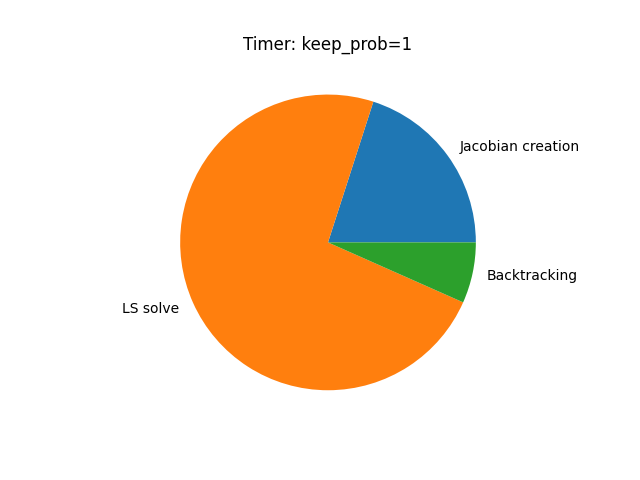
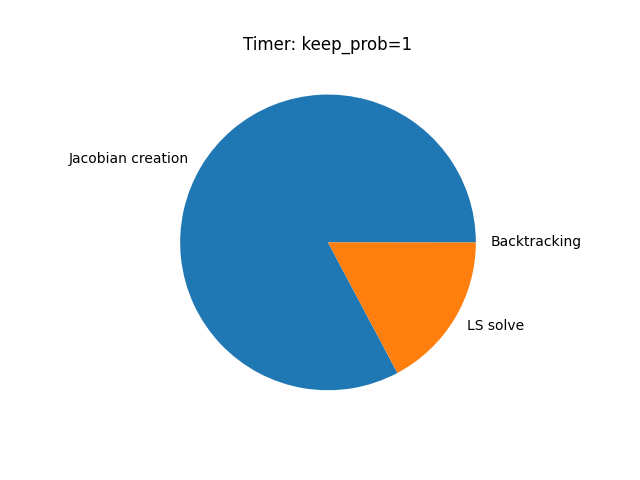
fix scaling of gaussian variance

Changed region(s): [[0.0938, 0.1875, 0.9062, 0.8125], [0.7188, 0.2812, 0.9062, 0.3125], [0.7188, 0.6562, 0.8125, 0.6875]]

diff --git a/src/mnist_conv_gaussian.py b/src/mnist_conv_gaussian.py
@@ -18,7 +18,7 @@ if __name__ == '__main__':
     torch.manual_seed(0)
 
     ## Load MNIST Dataset 
-    N=500
+    N=800
     (train_X, train_y), (test_X, test_y) = get_data_classifier(N=N, linear_input=False)
     ## Get initial neural network parameters 
     m = train_y.shape[1]
@@ -32,26 +32,29 @@ if __name__ == '__main__':
     print("Parameters", X0.shape)
 
     ## Do Gauss Newton
-    MAX_TIME = 100
-    print("Train Accuracy", get_accuracy(nn_gn, train_X, train_y))
-    print("Test Accuracy", get_accuracy(nn_gn, test_X, test_y))
-    X_est,train_errors_gaussian, _, timer, _ = optimize(nn_gn, X0, train_X, train_y, batch_size=150, max_time=MAX_TIME, backtrack=True,
-                        optimization_method="Gaussian", optim_params={"keep_prob":1})
+    MAX_TIME = 60
+    BATCH_SIZE=300
+
+    for i in range(1):
+        print("Train Accuracy", get_accuracy(nn_gn, train_X, train_y))
+        print("Test Accuracy", get_accuracy(nn_gn, test_X, test_y))
+        X_est,train_errors_gaussian, _, timer, _ = optimize(nn_gn, X0, train_X, train_y, batch_size=BATCH_SIZE, max_time=MAX_TIME, backtrack=True,
+                            optimization_method="Gaussian", optim_params={"keep_prob":1,"momentum": 0})
 
 
-    print("Train Accuracy", get_accuracy(nn_gn, train_X, train_y))
-    print("Test Accuracy", get_accuracy(nn_gn, test_X, test_y))
-    X_est,train_errors_05, _, timer, _  = optimize(nn_gn, X0, train_X, train_y, batch_size=150, max_time=MAX_TIME, backtrack=True,
-                        optimization_method="Random columns", optim_params={"keep_prob":1})
-    
-    ## Print results
-    losses = [train_errors_gaussian,train_errors_05]
-    labels = ["Algo 2: Gaussian", "Algo 2: Keep prob = 1"]
-    print("Train Accuracy", get_accuracy(nn_gn, train_X, train_y))
-    print("Test Accuracy", get_accuracy(nn_gn, test_X, test_y))
-    plot_mult(losses, labels,  "plots/Gaussian comparison", MAX_TIME, "Algo 2: Digit 10dim classification")
+        print("Train Accuracy", get_accuracy(nn_gn, train_X, train_y))
+        print("Test Accuracy", get_accuracy(nn_gn, test_X, test_y))
+        X_est,train_errors_05, _, timer, _  = optimize(nn_gn, X0, train_X, train_y, batch_size=BATCH_SIZE, max_time=MAX_TIME, backtrack=True,
+                            optimization_method="Random columns", optim_params={"keep_prob":1})
+        
+        ## Print results
+        losses = [train_errors_gaussian,train_errors_05]
+        labels = ["Algo 2: Gaussian", "Algo 2: Keep prob = 1"]
+        print("Train Accuracy", get_accuracy(nn_gn, train_X, train_y))
+        print("Test Accuracy", get_accuracy(nn_gn, test_X, test_y))
+        plot_mult(losses, labels,  "data/temp/Gaussian comparison", MAX_TIME, "Algo 2: Digit 10dim classification")
 
-    
+        
 
 
 

diff --git a/src/momentum.py b/src/momentum.py
@@ -1,6 +1,7 @@
 from functions.PyTorchGN import NN_GN
 from neural_networks.Conv2 import Conv2
 from neural_networks.Conv2_classifier import Conv2_Classifier
+from neural_networks.Conv3_classifier import Conv3_Classifier
 from neural_networks.FC1 import FC1
 from neural_networks.FC2 import FC2
 from neural_networks.Conv1 import Conv1
@@ -18,14 +19,14 @@ if __name__ == '__main__':
     torch.manual_seed(0)
 
     ## Load MNIST Dataset 
-    N=400
+    N=1400
     (train_X, train_y), (test_X, test_y) = get_data_classifier(N=N, linear_input=False)
 
     ## Get initial neural network parameters 
     m = train_y.shape[1]
     n = train_X.shape[1]
 
-    neural_network = Conv2_Classifier()
+    neural_network = Conv3_Classifier()
     #summary(neural_network, input_size = (1, 28, 28))
     neural_network.float()
     nn_gn = NN_GN(neural_network)
@@ -33,8 +34,8 @@ if __name__ == '__main__':
     print("Parameters", X0.shape)
 
     ## Do Gauss Newton
-    MAX_TIME = 120
-    EXPERIMENTS_COUNT = 4
+    MAX_TIME = 60
+    EXPERIMENTS_COUNT = 1
 
     losses = []
 
@@ -42,15 +43,15 @@ if __name__ == '__main__':
     plt.figure()
     for _ in range(EXPERIMENTS_COUNT):
         X_est,train_errors, _ , timer1, _,= optimize(nn_gn, X0, train_X, train_y, batch_size=300, max_time=MAX_TIME, backtrack=True,
-                        optimization_method="Random columns", optim_params={"keep_prob":0.01, "momentum": 0.5}, visualize=False)
+                        optimization_method="Random columns", optim_params={"keep_prob":0.1, "momentum": 0}, visualize=False)
         Ts = np.linspace(0, MAX_TIME, len(train_errors))
         plt.plot(Ts, train_errors, color='b')
 
-        X_est,train_errors, _ , timer1, _,= optimize(nn_gn, X0, train_X, train_y, batch_size=300, max_time=MAX_TIME, backtrack=True,
-                        optimization_method="Random columns", optim_params={"keep_prob":0.01, "momentum": 0}, visualize=False)
+        # X_est,train_errors, _ , timer1, _,= optimize(nn_gn, X0, train_X, train_y, batch_size=300, max_time=MAX_TIME, backtrack=True,
+        #                 optimization_method="Random columns", optim_params={"keep_prob":0.01, "momentum": 0}, visualize=False)
 
-        Ts = np.linspace(0, MAX_TIME, len(train_errors))
-        plt.plot(Ts, train_errors, color='g')
+        # Ts = np.linspace(0, MAX_TIME, len(train_errors))
+        # plt.plot(Ts, train_errors, color='g')
         sgd_losses_lr05 = stochastic_gradient_descent(train_X, train_y,  nn_gn=nn_gn, max_time=MAX_TIME, batch_size=300, lr=0.5)
 
         Ts = np.linspace(0, MAX_TIME, len(sgd_losses_lr05))

diff --git a/src/mnist_conv_nn_classifier.py b/src/mnist_conv_nn_classifier.py
@@ -1,6 +1,7 @@
 from functions.PyTorchGN import NN_GN
 from neural_networks.Conv2 import Conv2
 from neural_networks.Conv2_classifier import Conv2_Classifier
+from neural_networks.Conv3_classifier import Conv3_Classifier
 from neural_networks.FC1 import FC1
 from neural_networks.FC2 import FC2
 from neural_networks.Conv1 import Conv1
@@ -18,7 +19,7 @@ if __name__ == '__main__':
     torch.manual_seed(0)
 
     ## Load MNIST Dataset 
-    N=800
+    N=400
     (train_X, train_y), (test_X, test_y) = get_data_classifier(N=N, linear_input=False)
 
     ## Get initial neural network parameters 
@@ -33,7 +34,7 @@ if __name__ == '__main__':
     print("Parameters", X0.shape)
 
     ## Do Gauss Newton
-    MAX_TIME = 120
+    MAX_TIME = 5
     print("Train Accuracy", get_accuracy(nn_gn, train_X, train_y))
     print("Test Accuracy", get_accuracy(nn_gn, test_X, test_y))
     X_est,train_errors_1, _ , timer1, _,= optimize(nn_gn, X0, train_X, train_y, batch_size=300, max_time=MAX_TIME, backtrack=True,
@@ -57,10 +58,10 @@ if __name__ == '__main__':
     sgd_losses_lr05 = stochastic_gradient_descent(train_X, train_y,  nn_gn=nn_gn, max_time=MAX_TIME, batch_size=300, lr=0.5)
     print("Train Accuracy", get_accuracy(nn_gn, train_X, train_y))
     print("Test Accuracy", get_accuracy(nn_gn, test_X, test_y))
-    # plot_timer(timer1, title="Timer: keep_prob=1")
-    # plot_timer(timer05, title="Timer: keep_prob=0.5")
-    # plot_timer(timer01, title="Timer: keep_prob=0.1")
-    # plot_timer(timer001, title="Timer: keep_prob=0.001")
+    plot_timer(timer1, title="Timer: keep_prob=1")
+    plot_timer(timer05, title="Timer: keep_prob=0.5")
+    plot_timer(timer01, title="Timer: keep_prob=0.1")
+    plot_timer(timer001, title="Timer: keep_prob=0.01")
     sgd_losses_lr01 = stochastic_gradient_descent(train_X, train_y, nn_gn=nn_gn, max_time=MAX_TIME, batch_size=300, lr=0.1)
     print("Train Accuracy", get_accuracy(nn_gn, train_X, train_y))
     print("Test Accuracy", get_accuracy(nn_gn, test_X, test_y))

diff --git a/src/algorithms/algo2.py b/src/algorithms/algo2.py
@@ -80,7 +80,7 @@ class Stepper():
         error_vec = self.nn.forward(A, self.X_t + delt)-Y.flatten()
         nabla_f = 2*A_ls.T@error_vec #+ 2*self.lambd*delt
 
-        min_lambd, max_lambd = 1e-15, 500
+        min_lambd, max_lambd = 1e-15, 1
         lambd_multiplier = 4
         while new_error > old_error + alpha*t*(nabla_f).T@delt :
             i+=1
@@ -140,7 +140,8 @@ class Stepper():
         t2 = time.time()
         if self.optimization_method=="Gaussian":
             k = int(self.batch_size*0.85)
-            S = np.random.randn(k, A_ls.shape[0]) / (A_ls.shape[0])
+            #extra_scaling = 10
+            S = np.random.randn(k, A_ls.shape[0]) / np.sqrt(A_ls.shape[0])
             delt = lsmr(S@A_ls, S@b_ls, damp=np.sqrt(self.lambd), atol=1e-4)[0]
 
         elif self.optimization_method == "Random columns":

diff --git a/src/neural_networks/Conv3_classifier.py b/src/neural_networks/Conv3_classifier.py
@@ -1,0 +1,23 @@
+import torch.nn.functional as F
+import torch.nn as nn
+
+class Conv3_Classifier(nn.Module):
+    def __init__(self):
+        super(Conv3_Classifier, self).__init__()
+        self.conv1 = nn.Conv2d(1, 8, kernel_size=5)
+        #size: ( 28-5+1)x(28-5+1)x8
+        self.conv2 = nn.Conv2d(8, 16, kernel_size=1)
+        #size: 24x24x16
+        self.pool = nn.MaxPool2d(2)
+        #size: 12x12x16
+        self.fc1 = nn.Linear(12*12*16, 10)
+
+    def forward(self, x):
+
+        out = x.view(-1, 1, 28, 28)
+        out = F.relu(self.conv1(out))
+        out  = F.relu(self.pool(self.conv2(out)))
+        out = out.flatten(start_dim=1)
+        out = self.fc1(out)
+        out = F.softmax(out,  dim=-1)
+        return out

diff --git a/src/utils/plotting.py b/src/utils/plotting.py
@@ -27,7 +27,7 @@ def plot_mult(losses, labels, filename, tf, title):
     plt.tight_layout()
     plt.savefig(filename)
 
-    plt.show()
+    #plt.show()
 
 def plot_timer(timer, title="Timer"):
     plt.figure()
